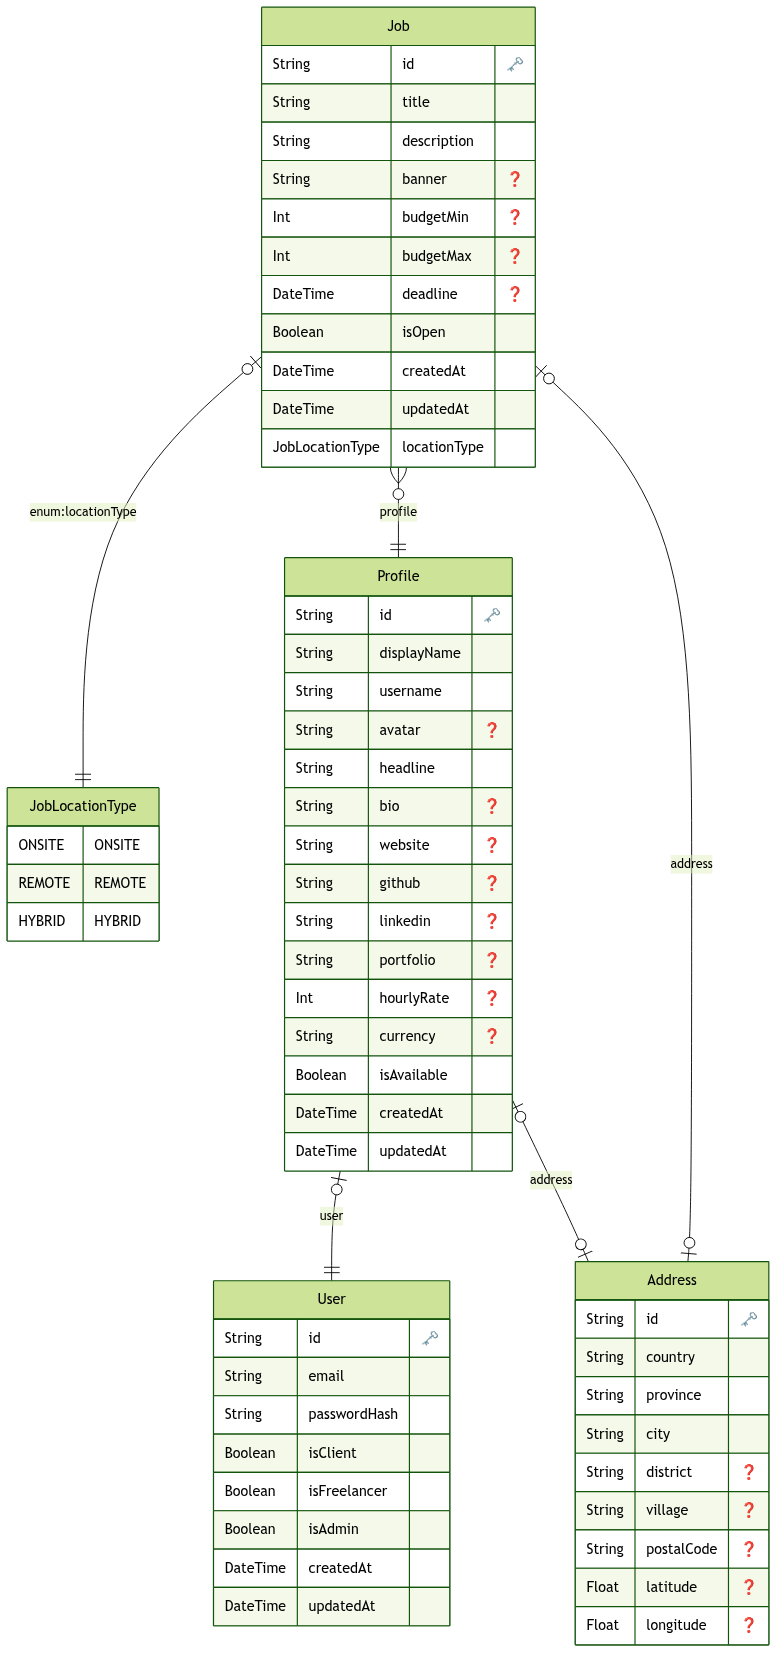
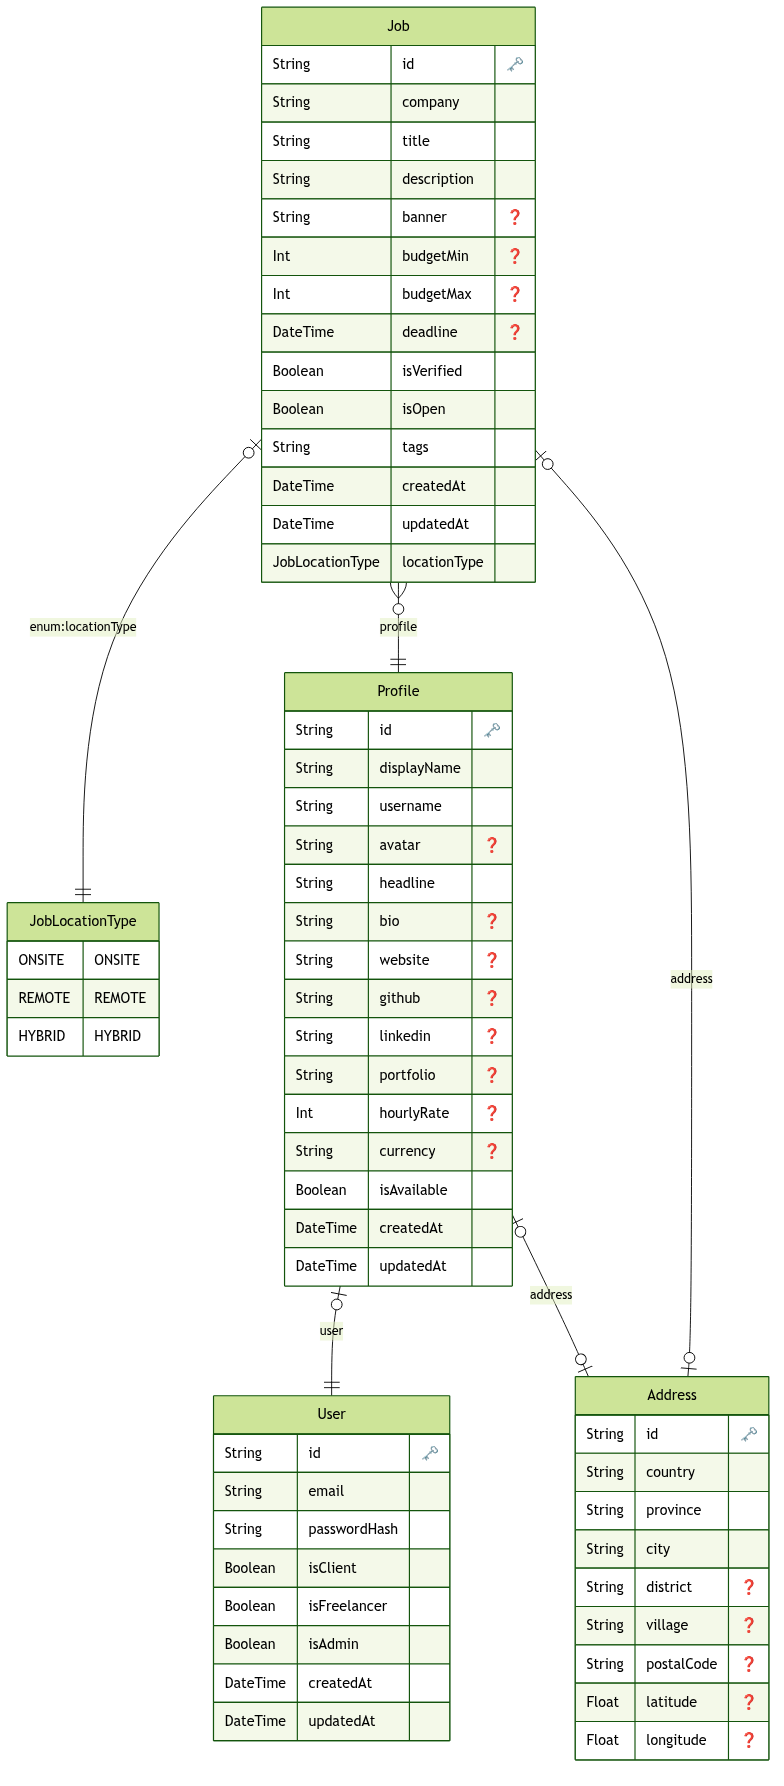
add: @user company, isVerified, tags

diff --git a/src/app/api/jobs/[id]/route.ts b/src/app/api/jobs/[id]/route.ts
@@ -52,6 +52,8 @@ export async function PATCH(
       },
 
       data: {
+        company: body.company,
+
         title: body.title,
         description: body.description,
         banner: body.banner,
@@ -65,7 +67,10 @@ export async function PATCH(
 
         locationType: body.locationType,
 
+        isVerified: body.isVerified,
         isOpen: body.isOpen,
+
+        tags: body.tags,
       },
 
       include: {

diff --git a/src/app/api/jobs/route.ts b/src/app/api/jobs/route.ts
@@ -17,6 +17,8 @@ export async function POST(request: Request) {
 
     const job = await prisma.job.create({
       data: {
+        company: body.company,
+
         title: body.title,
         description: body.description,
         banner: body.banner,
@@ -30,7 +32,10 @@ export async function POST(request: Request) {
 
         locationType: body.locationType,
 
+        isVerified: body.isVerified ?? false,
         isOpen: body.isOpen ?? true,
+
+        tags: body.tags,
 
         profile: {
           connect: {